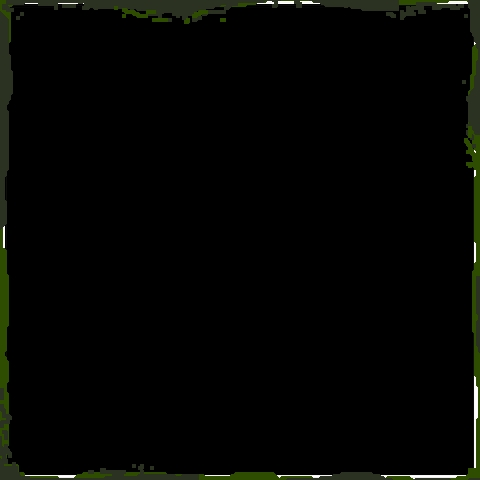
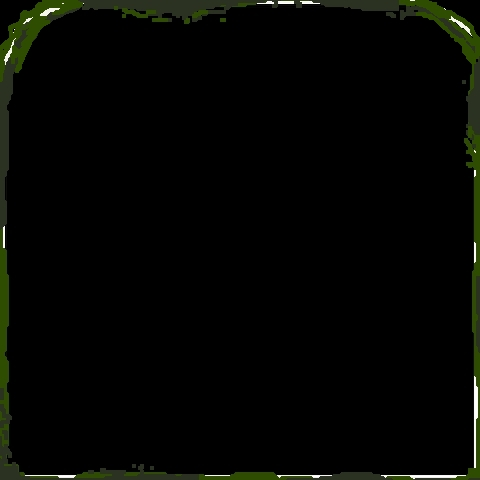
added more graphics and added safer quitting

Changed region(s): [[0.0, 0.0, 0.1875, 0.1562], [0.8438, 0.0, 1.0, 0.125]]

diff --git a/Menu.py b/Menu.py
@@ -2,6 +2,7 @@ import pygame
 import shooter
 import main
 import Story
+from sys import exit
 
 pygame.init()
 pygame.display.set_caption("Start Game")
@@ -22,14 +23,19 @@ def startscreen():
     while True:  
         for ev in pygame.event.get():     
             if ev.type == pygame.QUIT: 
-                pygame.quit()   
+                pygame.quit()
+                exit()
             if ev.type == pygame.MOUSEBUTTONDOWN:
                 if 610 <= mouse[0] <= 610+140 and 450 <= mouse[1] <= 490:
                     Story.storyScreen()
                     shooter.run_game()
             if ev.type == pygame.MOUSEBUTTONDOWN: 
                 if 610 <= mouse[0] <= 610+140 and 550 <= mouse[1] <= 590: 
-                    pygame.quit() 
+                    pygame.quit()
+                    exit()
+            if ev.type == pygame.QUIT:
+                pygame.quit()
+                exit()
 
         mouse = pygame.mouse.get_pos() 
         new = pygame.transform.scale(bg, (1280, 720))
@@ -58,10 +64,12 @@ def deathscreen():
     while True:  
         for ev in pygame.event.get():     
             if ev.type == pygame.QUIT: 
-                pygame.quit()   
+                pygame.quit()
+                exit()
             if ev.type == pygame.MOUSEBUTTONDOWN: 
                 if 560 <= mouse[0] <= 560+140 and 555 <= mouse[1] <= 555+40: 
-                    pygame.quit() 
+                    pygame.quit()
+                    exit()
 
         mouse = pygame.mouse.get_pos() 
 
@@ -86,10 +94,12 @@ def winningscreen():
     while True:  
         for ev in pygame.event.get():     
             if ev.type == pygame.QUIT: 
-                pygame.quit()   
+                pygame.quit()
+                exit()
             if ev.type == pygame.MOUSEBUTTONDOWN: 
                 if 560 <= mouse[0] <= 560+140 and 555 <= mouse[1] <= 555+40: 
-                    pygame.quit() 
+                    pygame.quit()
+                    exit()
 
         mouse = pygame.mouse.get_pos() 
 

diff --git a/shooter.py b/shooter.py
@@ -43,7 +43,7 @@ def run_game():
     dorm_room = pygame.image.load("assets/dormFloor.png")
     bg = pygame.image.load("assets/bg.jpg")
     gb = pygame.image.load("assets/game_box.jpg")
-    gb2 = pygame.image.load("assets/game_box - Copy.jpg")
+    gb2 = pygame.image.load("assets/game_box - Copy.png")
     gb_small = pygame.transform.scale(gb, (300, 300))
     gb_small2 = pygame.transform.scale(gb2, (300, 300))
 

diff --git a/Player.py b/Player.py
@@ -5,7 +5,7 @@ import Bullet
 class Player(pygame.sprite.Sprite):
     def __init__(self):
         pygame.sprite.Sprite.__init__(self)
-        self.HP = 3;
+        self.HP = 3
         self.image = pygame.transform.scale(pygame.image.load("assets/Rickie.png"), (30, 30))
         self.rect = self.image.get_rect()
         self.rect.centerx = shooter.WIDTH / 2
